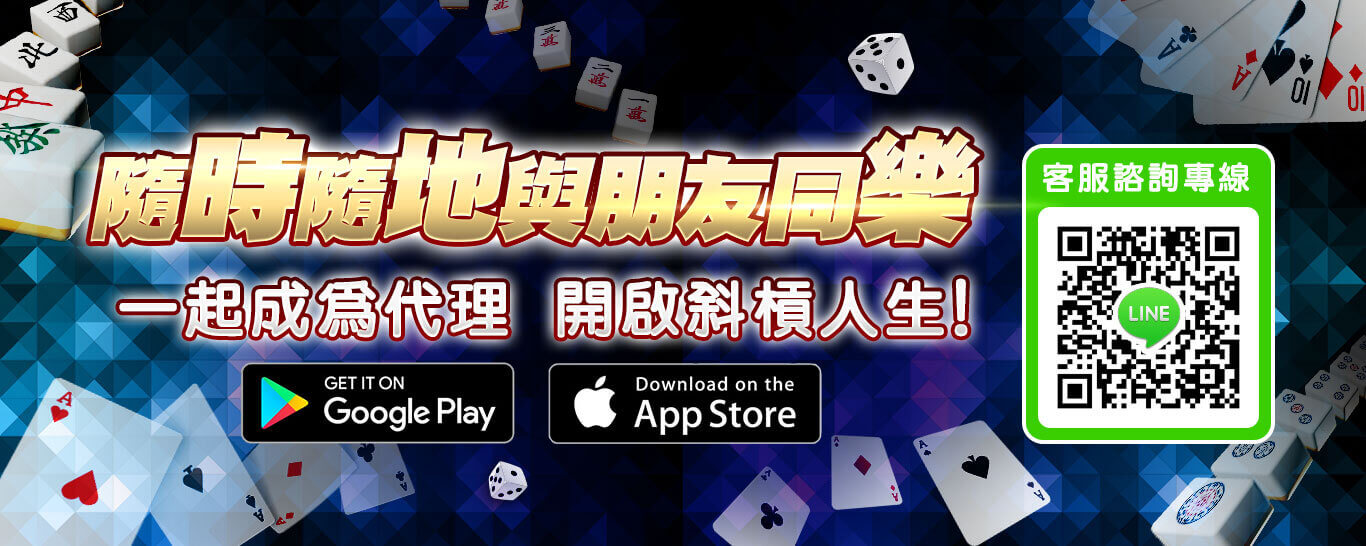
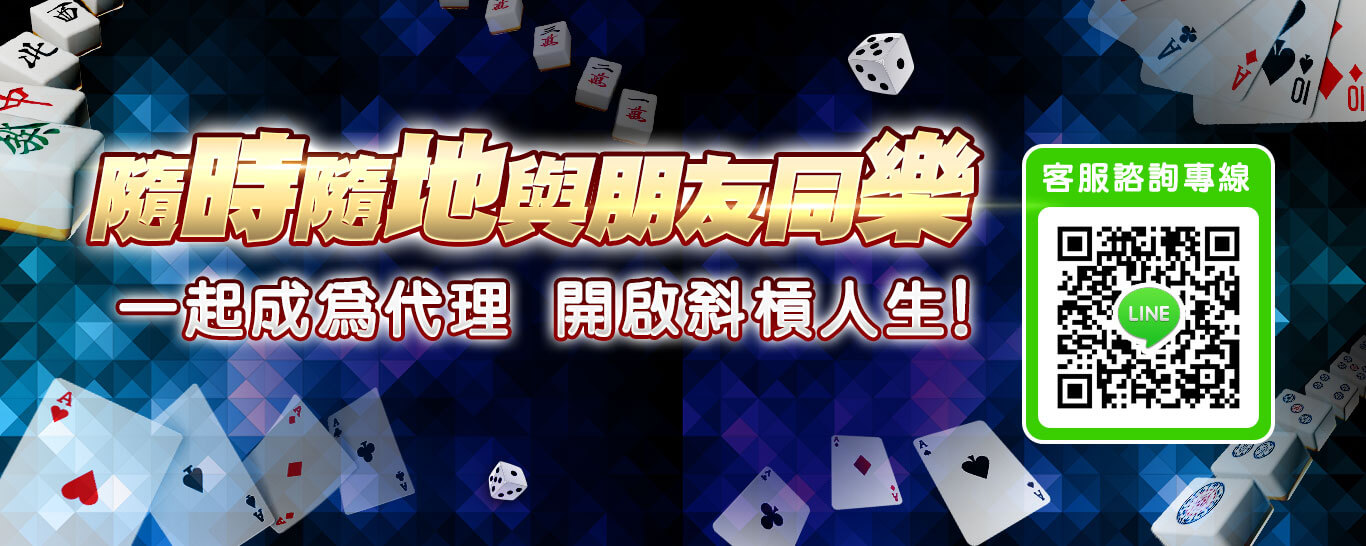
up

Changed region(s): [[0.1537, 0.6538, 0.6149, 0.8407]]

diff --git a/jumajan/css/style.css b/jumajan/css/style.css
@@ -140,12 +140,22 @@ a:hover.install_login_bn {
   grid-column-gap: 1vw;
   height: 100%;
   list-style: none;
-  margin: 0px;
   position: relative;
   margin-top: -20%;
 }
 .game_ui ul li a {
   padding: 3vh;
+}
+.download_now {
+  display: grid;
+  grid-template-columns: 0.8fr 1fr 1fr 1fr 0.8fr;
+  grid-template-rows: 1fr 1fr;
+  grid-column-gap: 1vw;
+  margin-top: -12%;
+}
+.download_now a:hover, .download_now a:visited {
+  filter: brightness(200%);
+  -webkit-filter: brightness(200%);
 }
 footer {
   background: url("../images/footer_bg.jpg") no-repeat center bottom;
@@ -344,7 +354,6 @@ a:hover.play_sixp_bn, a:visited.play_sixp_bn {
   display: grid;
   grid-template-columns: 1fr 1fr 1fr 1fr;
   grid-column-gap: 1vw;
-  /*justify-items: center;*/
 }
 .join_now h4 {
   font-weight: bold;
@@ -355,7 +364,10 @@ a:hover.play_sixp_bn, a:visited.play_sixp_bn {
   width: 100%;
   border-radius: 1rem;
   padding: 5%;
-  /*text-align: center;*/
+}
+.join_now a:hover, .join_now a:visited {
+  filter: brightness(200%);
+  -webkit-filter: brightness(200%);
 }
 /*常見問題*/
 .content_main01 {

diff --git a/jumajan/css/rwd.css b/jumajan/css/rwd.css
@@ -42,6 +42,11 @@
     font-size: 1.5rem;
     padding: 1vw;
   }
+  .download_now {
+    display: grid;
+    grid-template-columns: 0.4fr 1fr 1fr 1fr 0.2fr;
+    grid-template-rows: 1fr 0.5fr;
+  }
   .footer_conter {
     grid-template-columns: 1fr;
     grid-template-rows: 0.5fr 1fr;
@@ -60,7 +65,7 @@
   .features_content {
     grid-template-columns: auto;
     grid-template-rows: 1fr 0.7fr;
-	  align-items: start;
+    align-items: start;
   }
   .features_content h1 {
     font-size: 2rem;
